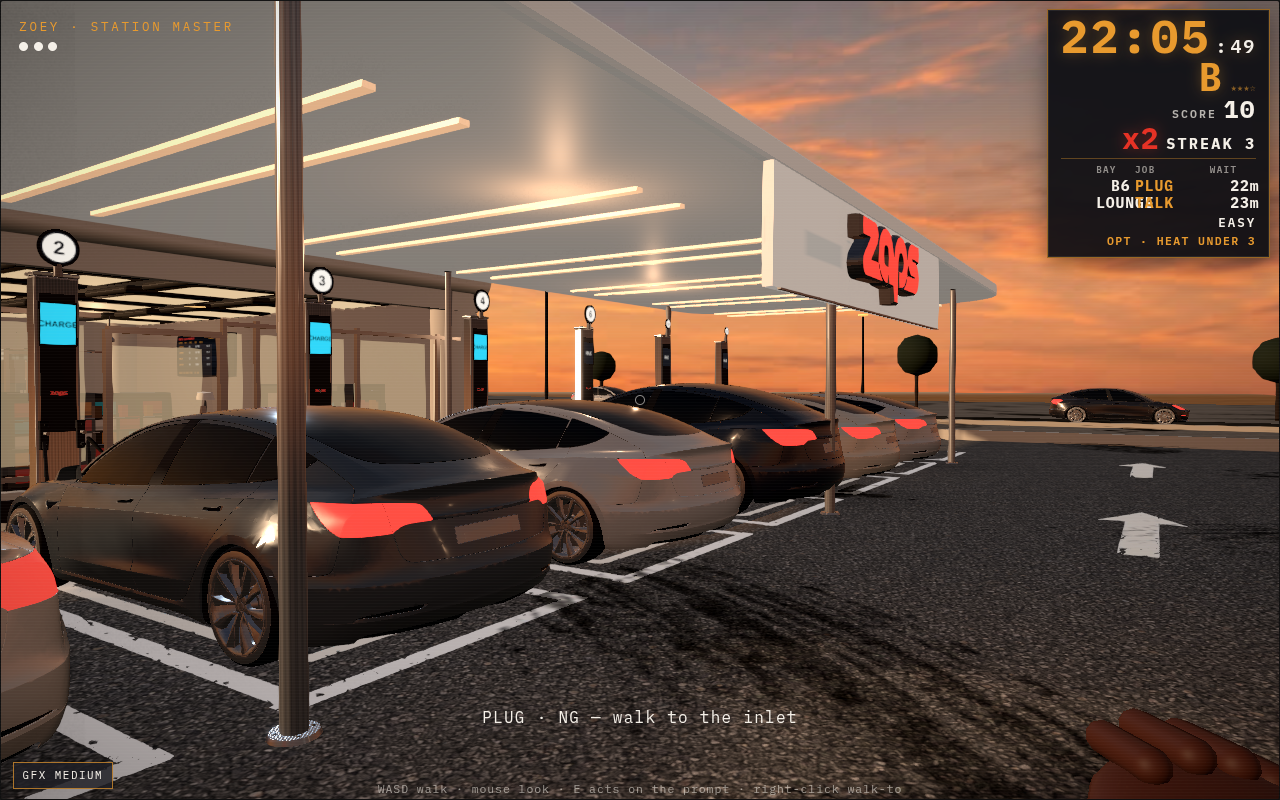
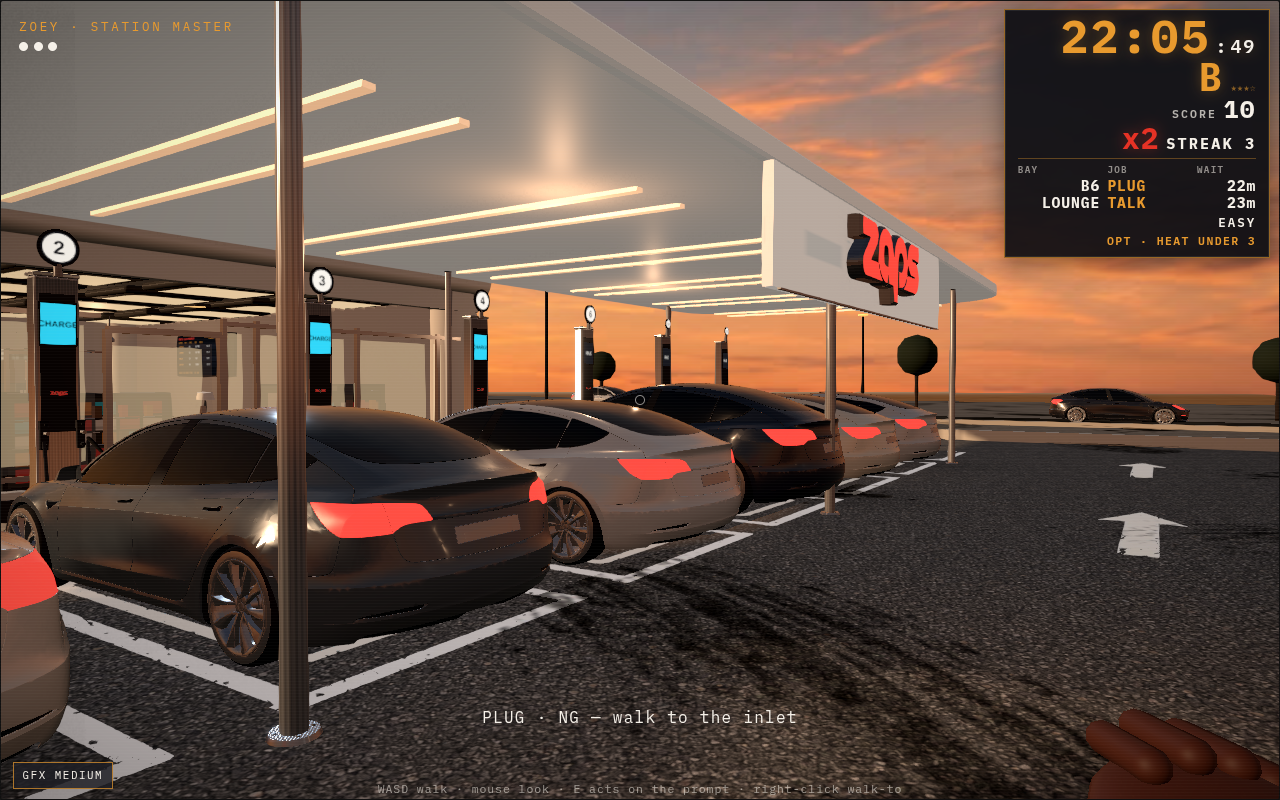
Keep the job queue columns from overlapping.
The bay column now fits LOUNGE beside JOB and WAIT, checked at 1280x720 and 1600x900.

Changed region(s): [[0.7812, 0.0, 1.0, 0.3438]]

diff --git a/scripts/ns-stills.ts b/scripts/ns-stills.ts
@@ -165,6 +165,34 @@ async function main(): Promise<void> {
       return { prompt, objective, queue };
     });
     console.log("hud", hudText);
+    for (const [width, height] of [
+      [1280, 720],
+      [1600, 900],
+    ] as const) {
+      await page.setViewport({ width, height, deviceScaleFactor: 1 });
+      await new Promise((r) => setTimeout(r, 80));
+      const problems = await page.evaluate(() => {
+        const issues: string[] = [];
+        for (const row of document.querySelectorAll(".q-head, .q-row")) {
+          const cells = [...row.children] as HTMLElement[];
+          for (let i = 0; i < cells.length; i++) {
+            const cell = cells[i]!;
+            if (cell.scrollWidth > cell.clientWidth + 1) {
+              issues.push(`${cell.textContent} clipped ${cell.scrollWidth}>${cell.clientWidth}`);
+            }
+            if (i === 0) continue;
+            const prev = cells[i - 1]!.getBoundingClientRect();
+            const cur = cell.getBoundingClientRect();
+            if (prev.right > cur.left + 0.5) {
+              issues.push(`${cells[i - 1]!.textContent} overlaps ${cell.textContent}`);
+            }
+          }
+        }
+        return issues;
+      });
+      if (problems.length) throw new Error(`${width}x${height} queue: ${problems.join("; ")}`);
+      console.log("queue columns", `${width}x${height}`, "ok");
+    }
     console.log("ns stills", [start.file, fascia.file, lounge.file, charger.file, hud.file]);
   } finally {
     await browser.close();

diff --git a/src/style.css b/src/style.css
@@ -293,9 +293,10 @@ body {
 .q-head,
 .q-row {
   display: grid;
-  grid-template-columns: 2.15rem 4.4rem 3.1rem;
-  gap: 0.28rem;
-  width: 10rem;
+  /* LOUNGE / UNPLUG / SOON, plus tracking, so cells never paint over each other. */
+  grid-template-columns: 5.15rem 5.15rem 3.7rem;
+  column-gap: 0.45rem;
+  width: max-content;
 }
 
 .q-head {
@@ -311,6 +312,12 @@ body {
   letter-spacing: 0.06em;
   line-height: 1.15;
   font-variant-numeric: tabular-nums;
+}
+
+.q-head > span,
+.q-row > span {
+  white-space: nowrap;
+  overflow: hidden;
 }
 
 .q-bay {
